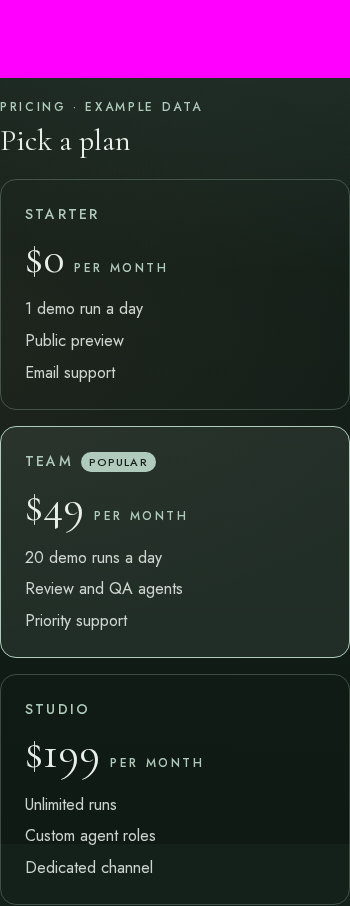
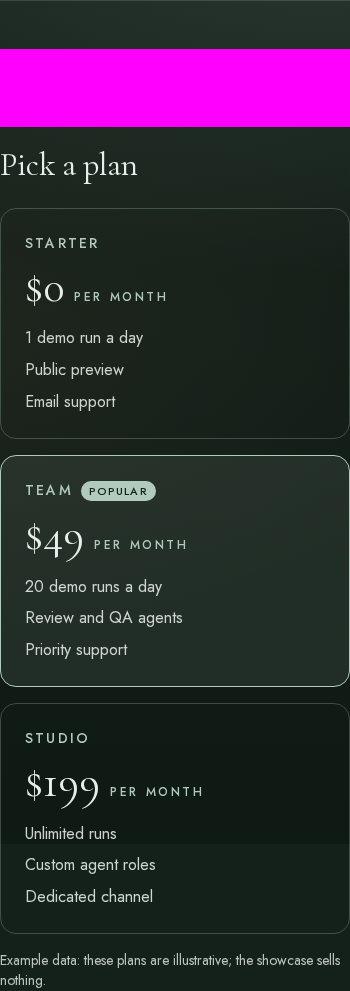
Kit: no eyebrow above feature headings (check + eyebrow-free references) (#118)
approved

diff --git a/scripts/v2/check-feature.js b/scripts/v2/check-feature.js
@@ -74,6 +74,9 @@ if (args[0] === "--compare") { // node check-feature.js --compare a.png b.png : 
     const r = await page.goto(url + (url.includes("?") ? "&" : "?") + "v=" + Date.now(), { waitUntil: "networkidle" });
     ok(r && r.status() === 200, `HTTP status ${r && r.status()}`);
     const sec = page.locator(`section[data-lab="${slug}"]`);
+    // Feature grid #117 (10/14): one width's first load on a fresh Vercel preview briefly served the page without the feature
+    // (the next width and production both had it). Retry the load once after 5s before calling it missing; a real miss still fails.
+    if ((await sec.count()) === 0) { log("feature section not found on first load; retrying once in 5s"); await page.waitForTimeout(5000); await page.goto(url + (url.includes("?") ? "&" : "?") + "v=" + Date.now(), { waitUntil: "networkidle" }); }
     if (!ok((await sec.count()) === 1, `feature section [data-lab="${slug}"] present on first load`)) { await ctx.close(); continue; }
     await sec.scrollIntoViewIfNeeded();
     ok(await sec.isVisible(), "feature visible");
@@ -82,6 +85,22 @@ if (args[0] === "--compare") { // node check-feature.js --compare a.png b.png : 
     ok(sx <= 0, `no sideways scroll (${sx}px overflow)`);
     const bb = await sec.boundingBox();
     ok(bb && bb.x >= 0 && bb.x + bb.width <= w + 1, `feature fits the ${w}px viewport`);
+    // NO-EYEBROW (requested 2026-10-14): no text may sit above the feature's <h2> (e.g. a small caps "EXAMPLE DATA" kicker).
+    // An "Example data" disclosure belongs in a plain line under the content. Buttons/links (e.g. a theme toggle) don't count.
+    const eb = await sec.evaluate((s) => {
+      const h = s.querySelector("h2"); if (!h) return { h2: false, text: [] };
+      const vis = (e) => { const r = e.getBoundingClientRect(), cs = getComputedStyle(e); return r.width > 0 && r.height > 0 && cs.visibility !== "hidden" && cs.display !== "none" && +cs.opacity > 0; };
+      const tw = document.createTreeWalker(s, NodeFilter.SHOW_TEXT), text = [];
+      for (let n; (n = tw.nextNode()); ) {
+        const t = n.textContent.trim(), e = n.parentElement;
+        if (!t || !e || e.closest("style,script,h2,button,a,[role=tab],[role=tablist],input,select,label")) continue;
+        if (!(h.compareDocumentPosition(n) & Node.DOCUMENT_POSITION_PRECEDING) || !vis(e)) continue;
+        text.push(t.slice(0, 40));
+      }
+      return { h2: true, text };
+    });
+    ok(eb.h2, "feature has an <h2> heading");
+    ok(eb.h2 && eb.text.length === 0, `no eyebrow above the heading${eb.text.length ? ` (found "${eb.text.join(" | ")}"; put any "Example data" note in a plain line under the content)` : ""}`);
     await spec.check({ page, sec, ok, w, engine, log, phase: "before-shot" });
     if (spec.art) { // design-led: Hazel's artwork must load (or show its fallback) and fit; its pixels are masked from the diff
       const arts = sec.locator("[data-art]"), n = await arts.count(), sb = await sec.boundingBox();

diff --git a/scripts/v2/README.md b/scripts/v2/README.md
@@ -28,4 +28,5 @@ and the functional checks in `specs/`). Regenerate references only with a human'
 Every number a feature shows (stats, counters, prices, dates, counts) must be real and verifiable, with a label that says
 exactly what it counts and, if it changes over time, when it was counted (e.g. "Runs shipped by Oct 11").
 Put the source in a code comment next to the value. If a number can't be verified, label it on the page as example data
-(e.g. "Example data"), never present it as fact. Features and reviews follow this rule; Rowan rejects a PR that breaks it.
+in a plain sentence-case line under the content (e.g. "Example data: ..."), never present it as fact. No eyebrow:
+nothing may sit above a feature's <h2> (no small caps kicker); `check-feature.js` fails the build if it does. Features and reviews follow this rule; Rowan rejects a PR that breaks it.

diff --git a/app/lab/README.md b/app/lab/README.md
@@ -13,6 +13,6 @@ Only showcase v2 (feature-menu) runs write here, and only when the `demoMode` fl
   It runs before every v2 run, from the admin page, and nightly at 3 AM CT (`.github/workflows/lab-reset.yml`).
   The classic heading and image are never touched by the reset.
 
-- Feature content uses only real, verifiable numbers with honest labels (source in a code comment), or is labeled "Example data" on the page. See `scripts/v2/README.md`.
+- Feature content uses only real, verifiable numbers with honest labels (source in a code comment), or is labeled "Example data" in a plain line under the content. No eyebrow (small caps text) above the feature's heading; the check fails it. See `scripts/v2/README.md`.
 
 Files in this folder that are not a feature folder (`README.md`, `menu.json`) are base files and are never removed.
